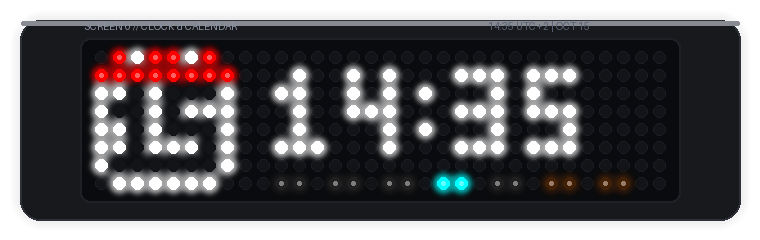
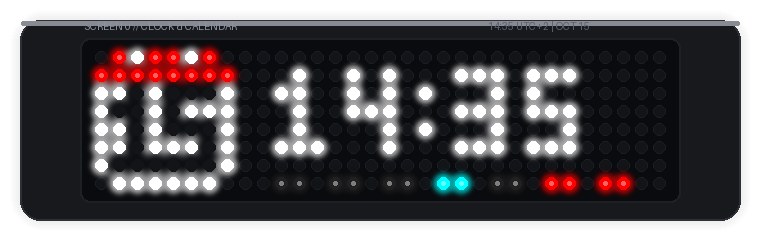
fix(display): repair weekday bars weekend color logic and lookup tables

Changed region(s): [[0.6961, 0.7, 0.8474, 0.8167]]

diff --git a/src/NetworkManager.cpp b/src/NetworkManager.cpp
@@ -75,39 +75,39 @@ static const uint16_t s_wdActiveColors[] = {
     0xF800, // 4: Red (#FF2200)
     0xFFFF, // 5: White (#FFFFFF)
     0xF81F, // 6: Magenta (#FF00FF)
-    0x04DF, // 7: Deep Sky Blue (#0099FF)
-    0xF9B3, // 8: Hot Coral (#FF3399)
-    0x37F3, // 9: Lime Mint (#33FF99)
-    0xFDB0  // 10: Gold Amber (#FFB700)
+    0x033F, // 7: Electric Blue (#0066FF)
+    0x77E0, // 8: Lime Green (#76FF03)
+    0xFE00, // 9: Amber Gold (#FFC107)
+    0xFA10  // 10: Soft Pink (#FF4081)
 };
 static const size_t s_numWdActiveColors = sizeof(s_wdActiveColors) / sizeof(s_wdActiveColors[0]);
 
 static const uint16_t s_wdInactiveColors[] = {
     0x0000, // 0: Auto (computed dynamically from active color at ~65% intensity)
-    0x7432, // 1: Slate Gray (#708090)
+    0x7412, // 1: Slate Gray (#708090)
     0x9342, // 2: Dim Amber (#906810)
-    0x3186, // 3: Dark Charcoal (#333333)
-    0x19F1, // 4: Dim Navy Blue (#1E3A8A)
-    0x02B2, // 5: Dim Teal (#005577)
-    0x7082, // 6: Dim Wine Red (#771111)
-    0x12A2, // 7: Dim Forest Green (#115511)
-    0x40AA, // 8: Dim Purple (#441155)
+    0x00C8, // 3: Dark Blue (#001A40)
+    0x3801, // 4: Deep Wine (#3A000A)
+    0x0141, // 5: Forest Green (#002A0D)
+    0x2124, // 6: Charcoal (#252525)
+    0x2886, // 7: Muted Purple (#2A1035)
+    0x0187, // 8: Dark Cyan (#003038)
     0x0000  // 9: Off (Black)
 };
 static const size_t s_numWdInactiveColors = sizeof(s_wdInactiveColors) / sizeof(s_wdInactiveColors[0]);
 
 static const uint16_t s_wdWeekendColors[] = {
     0x0000, // 0: Same as Active Day Color
-    0xF800, // 1: Red (#FF2200 - Classic Weekend)
-    0xFD20, // 2: Orange (#FF8800)
-    0xFFE0, // 3: Yellow (#FFFF00)
-    0xF9B3, // 4: Hot Coral (#FF3399)
-    0xF81F, // 5: Magenta (#FF00FF)
-    0x04DF, // 6: Deep Sky Blue (#0099FF)
-    0x07FF, // 7: Cyan (#00F0FF)
-    0x37F3, // 8: Lime Mint (#33FF99)
-    0xFDB0, // 9: Gold Amber (#FFB700)
-    0xFFFF  // 10: White (#FFFFFF)
+    0xF800, // 1: Bright Red (#FF2200)
+    0xFB49, // 2: Coral Orange (#FF6B4A)
+    0xFEA0, // 3: Gold (#FFD700)
+    0xF8B2, // 4: Hot Pink (#FF1493)
+    0x9936, // 5: Purple (#9C27B0)
+    0x07FF, // 6: Cyan (#00F0FF)
+    0x77E0, // 7: Lime (#76FF03)
+    0xFFFF, // 8: Pure White (#FFFFFF)
+    0x05FF, // 9: Sky Blue (#00BFFF)
+    0x072E  // 10: Emerald (#00E676)
 };
 static const size_t s_numWdWeekendColors = sizeof(s_wdWeekendColors) / sizeof(s_wdWeekendColors[0]);
 
@@ -3137,22 +3137,12 @@ void Network_SetWeekdayWeekendColorIndex(uint8_t idx) {
 }
 uint16_t Network_GetWeekdayWeekendColor() {
     if (s_weekdayWeekendColIdx == 0) {
-        return Network_GetWeekdayActiveColor();
+        return 0; // 0 indicates "Same as Active Weekday" (no dedicated weekend accent)
     }
     return s_wdWeekendColors[(s_weekdayWeekendColIdx < s_numWdWeekendColors) ? s_weekdayWeekendColIdx : 0];
 }
 uint16_t Network_GetWeekdayInactiveWeekendColor() {
-    if (s_weekdayInactColIdx == 0) {
-        uint16_t wc = Network_GetWeekdayWeekendColor();
-        uint8_t r = (wc >> 11) & 0x1F;
-        uint8_t g = (wc >> 5) & 0x3F;
-        uint8_t b = wc & 0x1F;
-        r = (uint8_t)(((uint16_t)r * 170) >> 8);
-        g = (uint8_t)(((uint16_t)g * 170) >> 8);
-        b = (uint8_t)(((uint16_t)b * 170) >> 8);
-        return (r << 11) | (g << 5) | b;
-    }
-    return Network_GetWeekdayInactiveColor();
+    return Network_GetWeekdayWeekendColor();
 }
 
 String Network_GetPortalLanguage() { return s_portalLang; }

diff --git a/tools/generate_previews.py b/tools/generate_previews.py
@@ -277,9 +277,9 @@ class MatrixScreen:
         for i in range(7):
             is_wknd = (i == 5 or i == 6) if is_mon_start else (i == 0 or i == 6)
             if i == active_day_idx:
-                col = weekend_col if (is_wknd and weekend_col != 0) else active_col
+                col = active_col
             else:
-                col = inactive_weekend_col if (is_wknd and inactive_weekend_col != 0) else inactive_col
+                col = weekend_col if (is_wknd and weekend_col != 0) else inactive_col
             bx = start_x + i * 3
             self.draw_pixel(bx, y, col)
             self.draw_pixel(bx + 1, y, col)
@@ -381,8 +381,8 @@ def main():
     m0 = MatrixScreen()
     m0.draw_calendar_icon(0, 0, 15) # Day 15
     m0.draw_time_3x5(10, 1, 14, 35, True, C_WHITE, C_WHITE)
-    # Weekday bar: Thursday active (idx 3 with Mon-start), cyan active, dim inactive
-    m0.draw_weekday_bar(3, C_CYAN, 0x2104, C_ORANGE, 0x4101, True, 10, 7)
+    # Weekday bar: Thursday active (idx 3 with Mon-start), cyan active, dim inactive workdays, red weekend
+    m0.draw_weekday_bar(3, C_CYAN, 0x2104, C_RED, 0, True, 10, 7)
     img0 = render_device_image(m0, "SCREEN 0 // CLOCK & CALENDAR", "14:35 UTC+2 | OCT 15")
     img0.save("docs/media/screen_0_clock.png")
     print("Saved screen_0_clock.png")

diff --git a/src/DisplayMatrix.cpp b/src/DisplayMatrix.cpp
@@ -421,9 +421,9 @@ void DisplayMatrix_DrawWeekdayBar(int activeDayIndex, uint16_t activeColor, uint
         bool isWknd = isMondayStart ? (i == 5 || i == 6) : (i == 0 || i == 6);
         uint16_t col;
         if (i == activeDayIndex) {
-            col = (isWknd && weekendColor != 0) ? weekendColor : activeColor;
+            col = activeColor;
         } else {
-            col = (isWknd && inactiveWeekendColor != 0) ? inactiveWeekendColor : inactiveColor;
+            col = (isWknd && weekendColor != 0) ? weekendColor : inactiveColor;
         }
         int bx = startX + i * 3;
         s_matrix.drawPixel(bx,     y, col);
